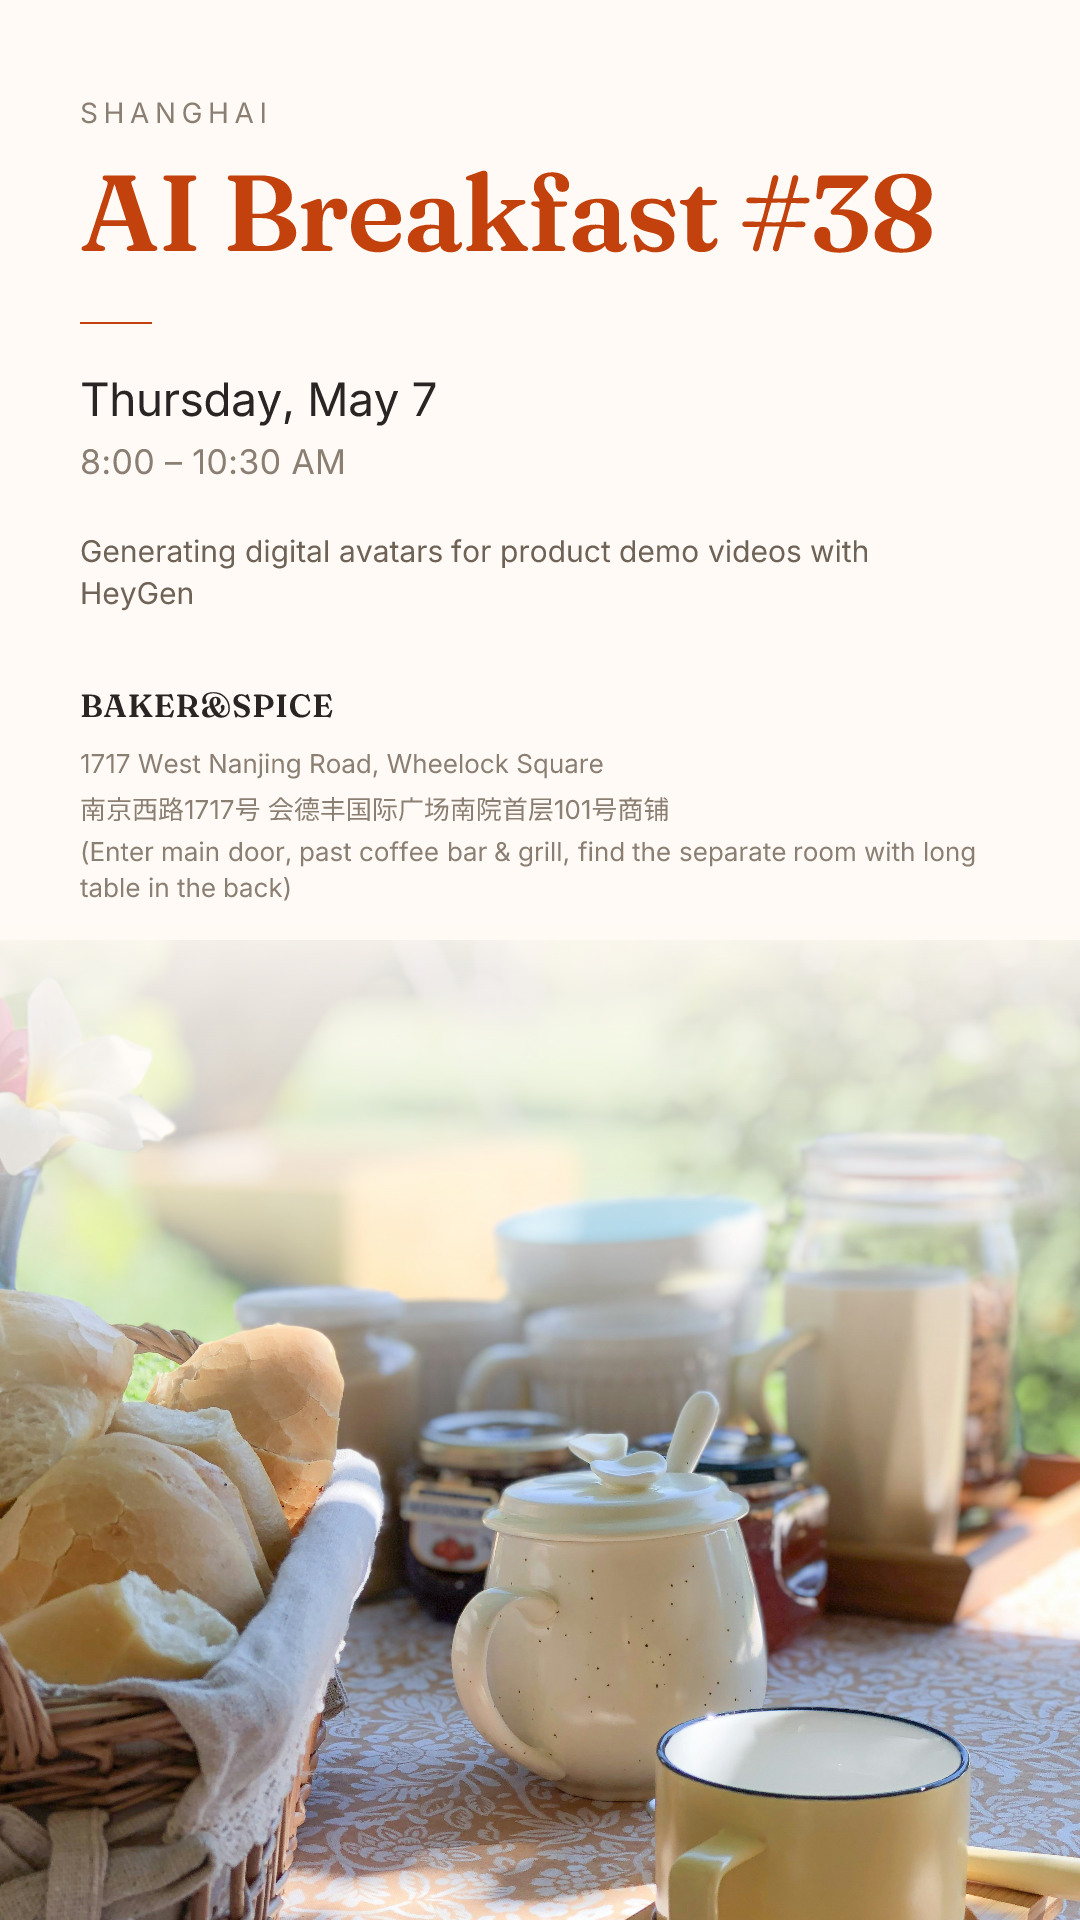
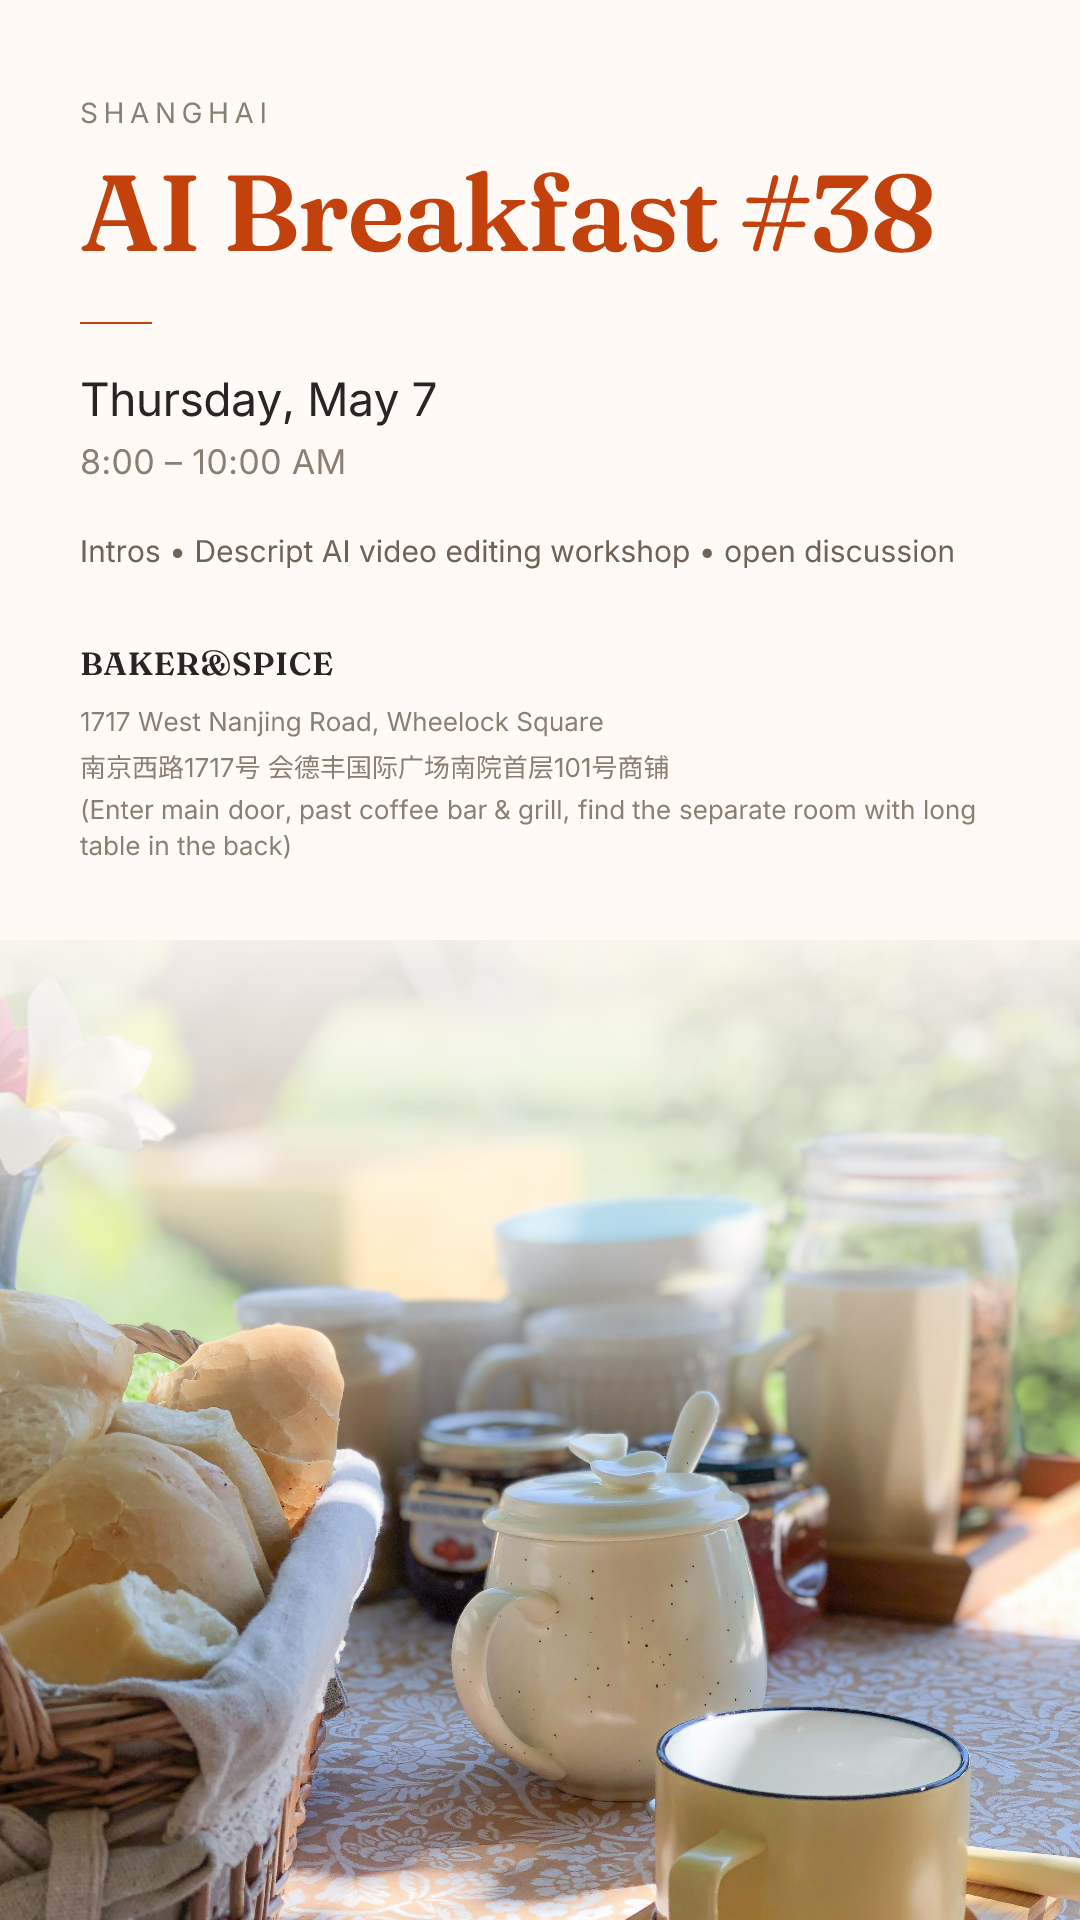
Update AI Breakfast #38 to Descript workshop, 8–10 AM
Regenerate poster assets with the new tagline (Intros • Descript AI video
editing workshop • open discussion) and shorter time window (8:00 – 10:00 AM).
The huodongxing event listing was updated separately via the browser; this
commit just captures the regenerated PNGs alongside.

Document three new huodongxing-create-event quirks discovered this run:
session mismatch on login silently breaks everything, the edit page's
detailed-address textbox shows empty after reload but the value is still
stored server-side, and the edit-page save button produces no toast/modal/URL
change on success.

Changed region(s): [[0.0611, 0.2812, 0.8861, 0.4688], [0.8556, 0.4062, 0.8861, 0.4688]]

diff --git a/.claude/skills/huodongxing-create-event/SKILL.md b/.claude/skills/huodongxing-create-event/SKILL.md
@@ -22,6 +22,7 @@ Create and manage AI Breakfast events on huodongxing.com using `agent-browser` (
 - Banner slot accepts **1080×640** jpg/png, max 4MB
 - Defaults (venue, time, capacity, highlights format) live in `.claude/skills/PREFERENCES.md` — check before filling per-event fields
 - Always use `--session hdx` so state persists across commands
+- **Login session must match**: when prompting the user to log in, also pass `--session hdx` (e.g. `agent-browser --session hdx --headed open https://www.huodongxing.com/login`). If the user logs in via the default session, every subsequent `--session hdx` command sees a logged-out browser and silently redirects to `/login`.
 
 ## ⚠ Meta: Keep this skill alive
 
@@ -295,7 +296,7 @@ agent-browser --session hdx eval 'var ed = UE.instants[Object.keys(UE.instants)[
 
 ### Fields don't always carry over from create → edit
 
-The detailed-address textbox came back **empty** on the edit page even though it was set on create (country/province/city DID persist). After every navigation between create/edit, re-verify all fields are populated.
+The detailed-address textbox shows **empty** on the edit page even though it was set on create (country/province/city DID persist). The value is actually still stored server-side and renders correctly on the public listing — but the form field itself is blank. If you save while it's blank, the listing keeps the old address, but if you fill it in and save, the listing updates. After every navigation between create/edit, re-verify all fields are populated.
 
 ### Flatpickr on edit page
 
@@ -307,6 +308,10 @@ agent-browser --session hdx eval 'el.__vue__.$data.fp.setDate("2026-04-09 08:00"
 ### `node-Address` error on edit submit
 
 The edit page sometimes throws `找不到对应ID的元素: node-Address` in the console, which silently blocks submission. Workaround: use the create page (`/createv3#/`) instead of editing.
+
+### Edit page save gives no visible feedback
+
+Clicking `保存活动信息` on the edit page produces no toast, no modal, no URL change — even when the save succeeds. The toast log will also be empty. **The only reliable way to verify a successful save is to reload the edit page and re-read the fields**, or open the public listing URL (`https://3583937770984.huodongxing.com/event/EVENT_ID`) and check that the changes are reflected there.
 
 ### Miniprogram-created events can't be fully edited in browser
 
@@ -360,3 +365,5 @@ Defaults (venue, time, capacity) are in `.claude/skills/PREFERENCES.md`. Poster 
 - **Form submission stays on /createv3** → run through validation order checklist; check toast log
 - **Wrong district** → BAKER&SPICE is 静安, not 徐汇
 - **Listing shows wrong capacity** → set BOTH the master 总名额 AND the ticket drawer quantity to 25
+- **All `--session hdx` commands redirect to /login** → user logged in via the default session; restart the login step with `agent-browser --session hdx --headed open https://www.huodongxing.com/login`
+- **Edit save: "did it work?"** → no toast/modal/redirect on success; reload the page or check the public listing to verify
